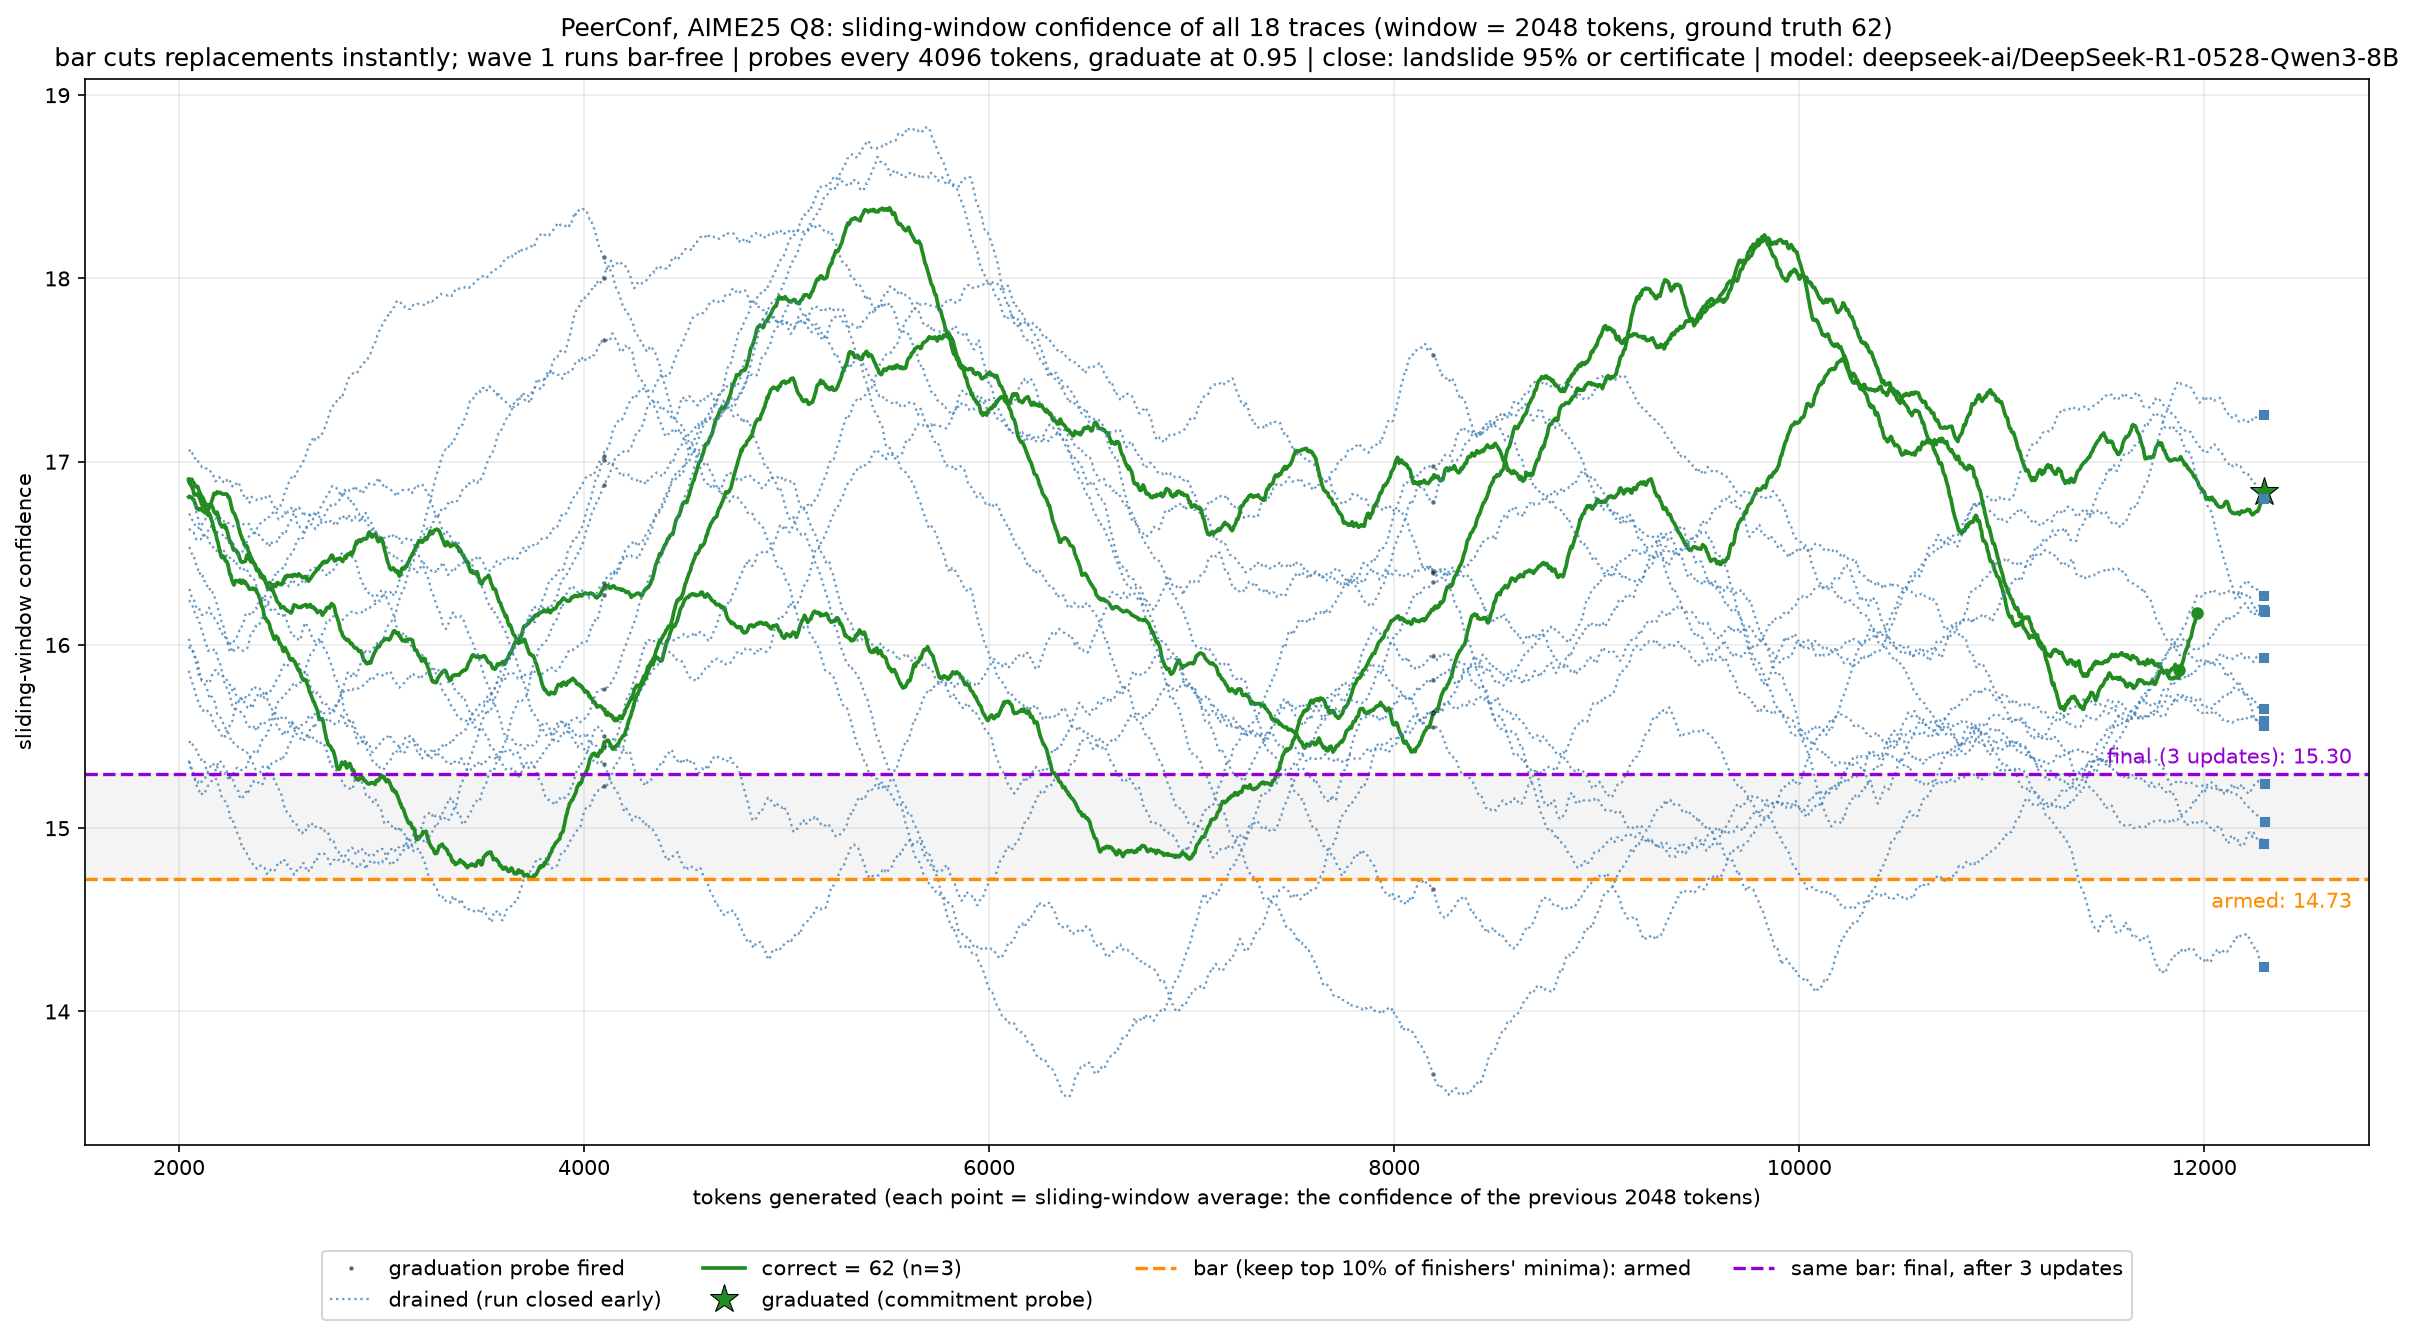
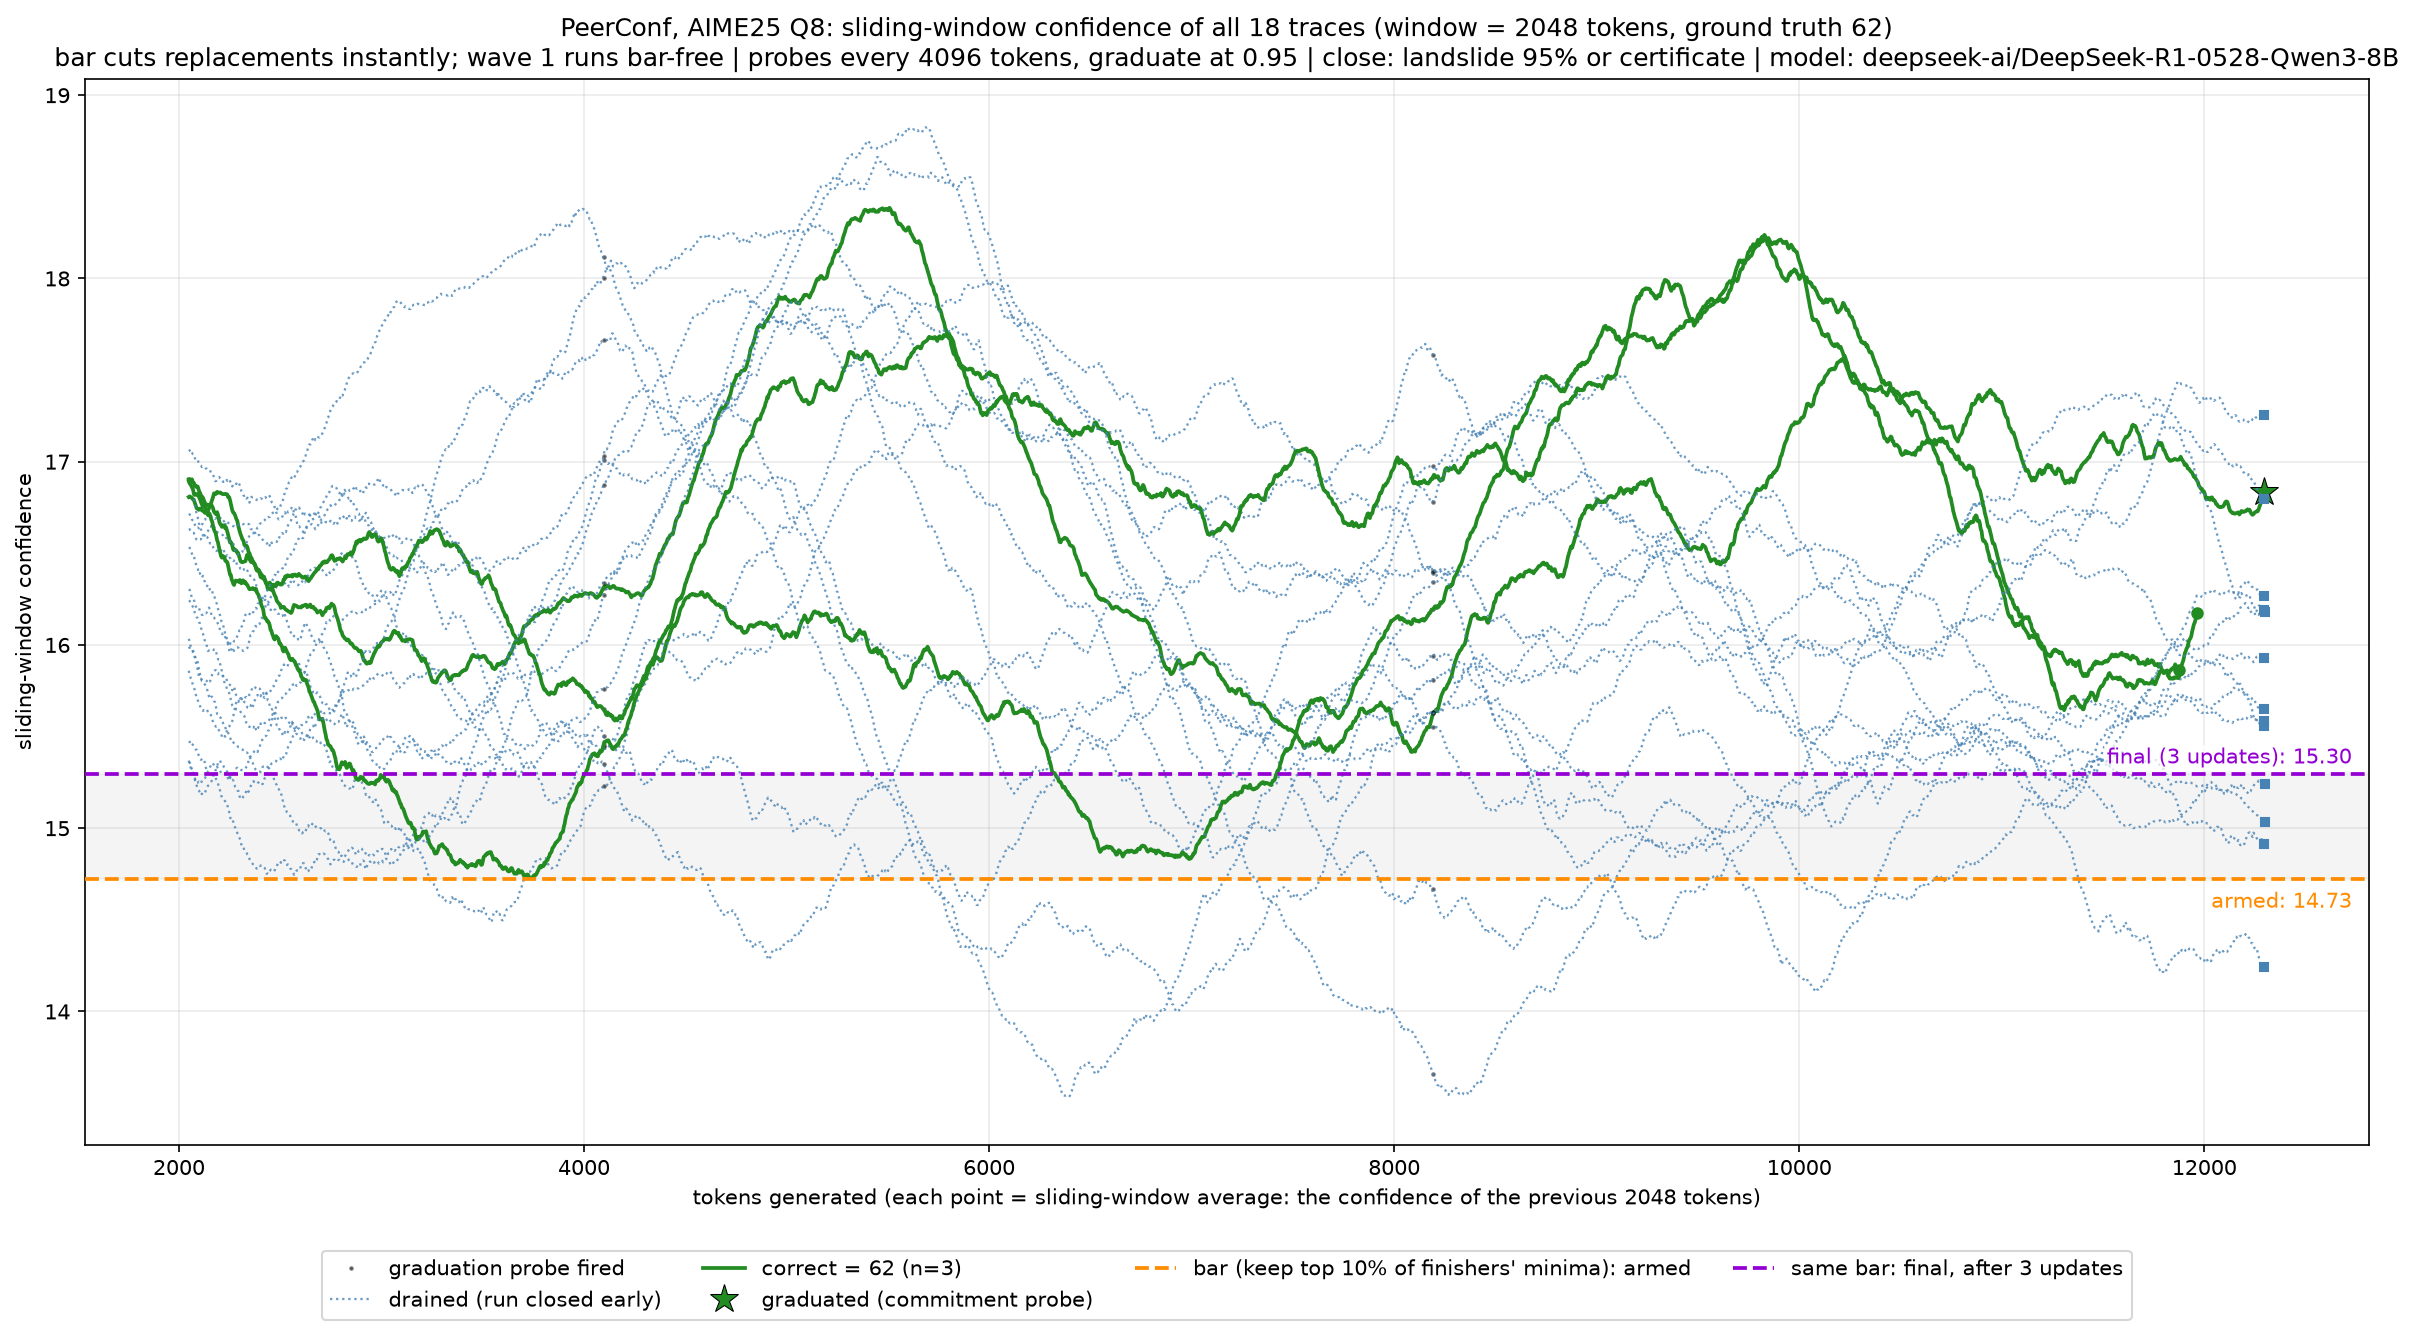
make the vote bar easier to see

Changed region(s): [[0.8699, 0.5528, 0.901, 0.5835]]

diff --git a/peerconf/cell3_confidence_timeline.py b/peerconf/cell3_confidence_timeline.py
@@ -127,8 +127,9 @@ def draw_timeline(fname):
     ARMED, FINAL = "darkorange", "darkviolet"
     if lh:
         first, last = lh[0]["line"], lh[-1]["line"]
-        ax.axhline(first, color=ARMED, ls="--", lw=1.6, label=f"{bar_lab}: armed")
-        ax.axhline(last, color=FINAL, ls="--", lw=1.6,
+        ax.axhline(first, color=ARMED, ls="--", lw=1.8, zorder=6,
+                   label=f"{bar_lab}: armed")
+        ax.axhline(last, color=FINAL, ls="--", lw=1.8, zorder=6,
                    label=f"same bar: final, after {len(lh)} updates")
         ax.axhspan(min(first, last), max(first, last), color="0.45", alpha=0.08)
         # the higher level is tagged above its line and the lower one below, and
@@ -139,21 +140,25 @@ def draw_timeline(fname):
         dy_first, dy_last = ((pad, -pad - 9) if first >= last else (-pad - 9, pad))
         ax.annotate(f"armed: {first:.2f}", xy=(1.0, first),
                     xycoords=("axes fraction", "data"), xytext=(-8, dy_first),
-                    textcoords="offset points", ha="right", color=ARMED)
+                    textcoords="offset points", ha="right", color=ARMED, zorder=8,
+                    bbox=dict(fc="white", ec="none", alpha=0.75, pad=1.2))
         ax.annotate(f"final ({len(lh)} updates): {last:.2f}", xy=(1.0, last),
                     xycoords=("axes fraction", "data"), xytext=(-8, dy_last),
-                    textcoords="offset points", ha="right", color=FINAL)
+                    textcoords="offset points", ha="right", color=FINAL, zorder=8,
+                    bbox=dict(fc="white", ec="none", alpha=0.75, pad=1.2))
 
     # the vote bar, on the questions that reached it: once wave 1 has departed,
     # a wave-1 path below this line no longer votes. Absent where the run closed
     # before wave 1 was done, so nothing is drawn there.
     vbar = cfg.get("vote_bar")
     if vbar is not None:
-        ax.axhline(vbar, color="teal", ls="-.", lw=1.6,
+        ax.axhline(vbar, color="darkcyan", ls="-.", lw=2.6, zorder=7,
                    label=f"vote bar (wave 1 must clear it to vote, top {keep}%)")
         ax.annotate(f"vote bar: {vbar:.2f}", xy=(0.0, vbar),
                     xycoords=("axes fraction", "data"), xytext=(8, 6),
-                    textcoords="offset points", ha="left", color="teal")
+                    textcoords="offset points", ha="left", color="darkcyan",
+                    fontweight="bold", zorder=8,
+                    bbox=dict(fc="white", ec="darkcyan", lw=0.8, alpha=0.9, pad=1.6))
 
     # the generation cap, when the pkl recorded it: a khaki trace that ends here
     # was truncated by the budget, not by anything the run decided
